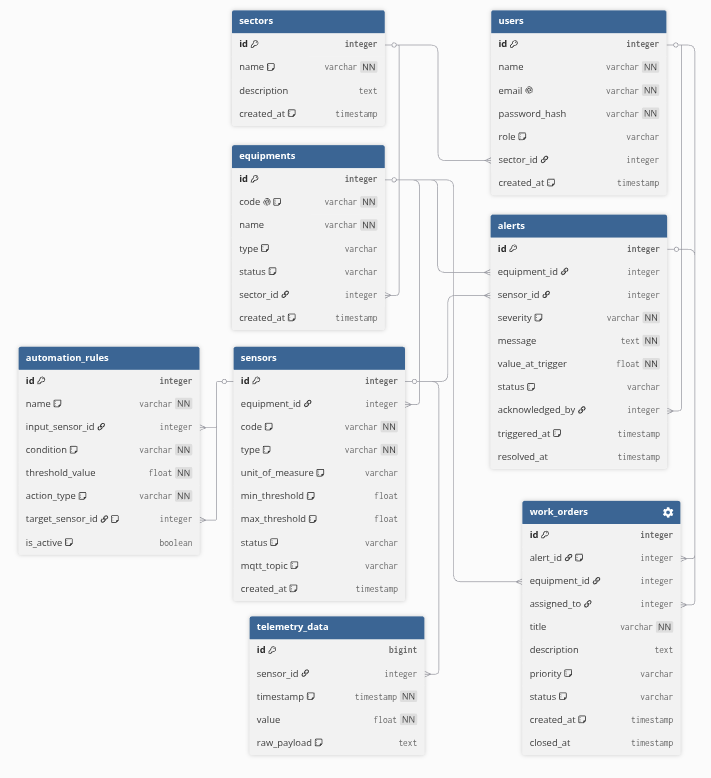
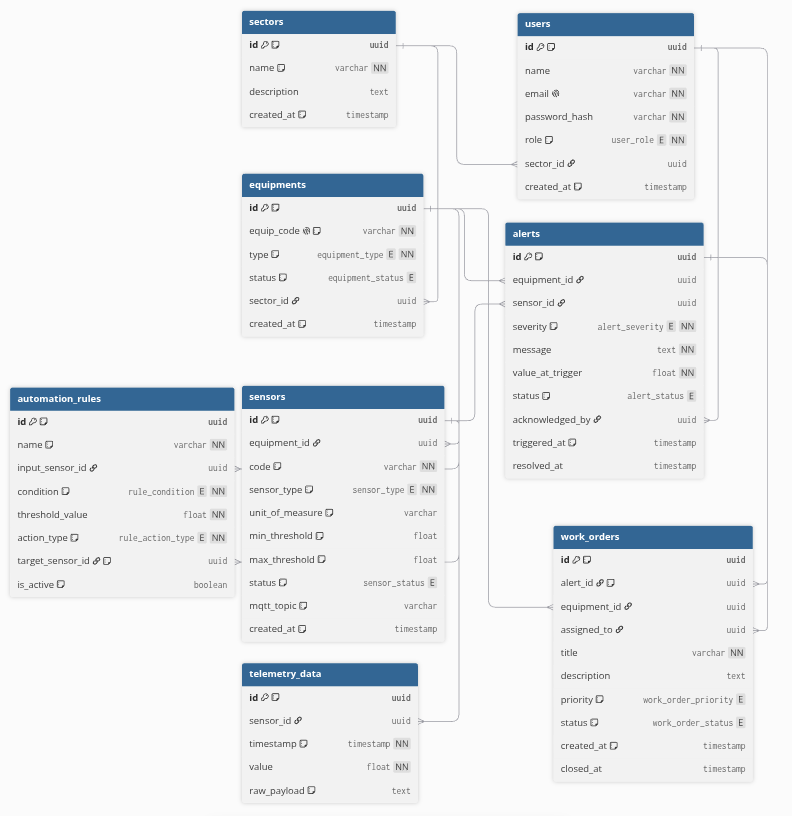
feat(db): add Flyway migration scripts V01 to V08 for core schema (closes #4)

Changed region(s): [[0.0, 0.0, 0.9902, 0.9871], [0.4332, 0.0, 0.5879, 0.1851], [0.3094, 0.0, 0.4023, 0.1542]]

diff --git a/src/main/java/henrique/igor/iiot/IndustrialIotBackendApplication.java b/src/main/java/henrique/igor/iiot/IndustrialIotBackendApplication.java
@@ -2,8 +2,10 @@ package henrique.igor.iiot;
 
 import org.springframework.boot.SpringApplication;
 import org.springframework.boot.autoconfigure.SpringBootApplication;
+import org.springframework.data.jpa.repository.config.EnableJpaAuditing;
 
 @SpringBootApplication
+@EnableJpaAuditing
 public class IndustrialIotBackendApplication {
 
     public static void main(String[] args) {
